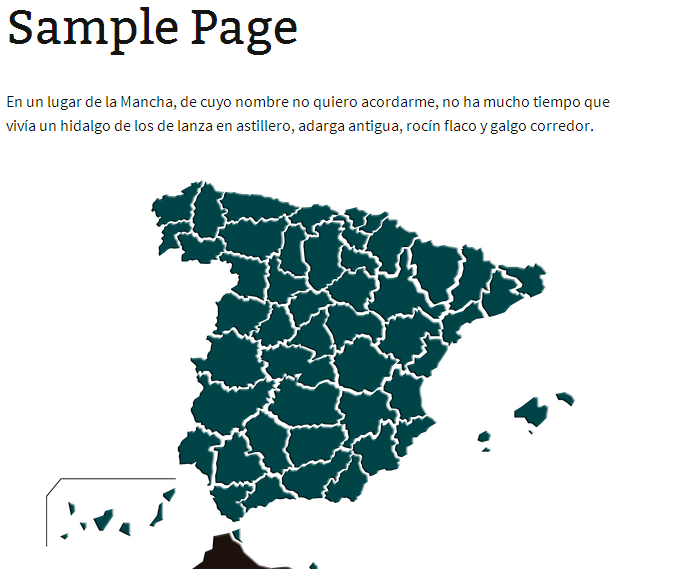
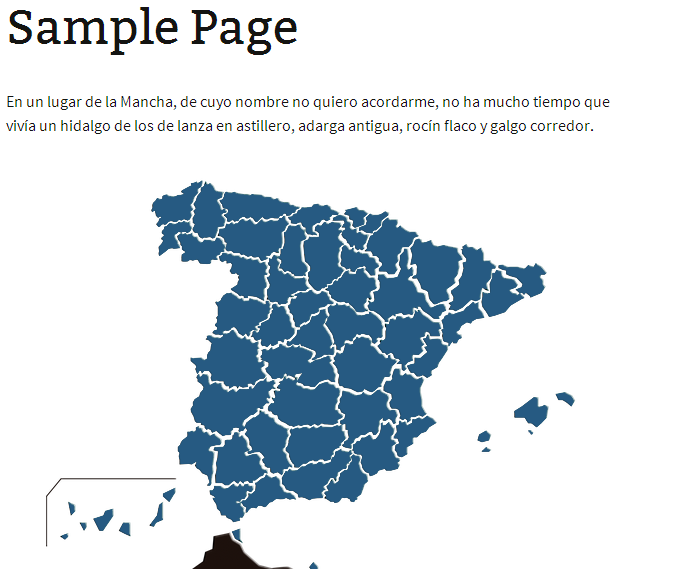
Version 1.1.0
Nueva versión

diff --git a/js/mapa-politico-spain.js b/js/mapa-politico-spain.js
@@ -1,6 +1,6 @@
 jQuery(function($){
 	$(document).ready(function(){
-
+ 
 		$('img#wp-img-mapa').mouseover(function(){
 
 			var imagen = $(this);
@@ -16,6 +16,89 @@ jQuery(function($){
 			return false;
 		});
 		
+
+	
+		$('area.provincia').mouseover(function(){
+
+			var imagen_actual = $("img#wp-img-mapa").attr("src");
+			var imagen_nueva ;
+			
+			var siteurl =  bloginfo.siteurl;
+	
+			var ruta = siteurl+"/wp-content/plugins/wp-mapa-politico-spain/images/";
+			var id_area = $(this).attr('id');
+			
+			if (
+			   (id_area == 'prv-15') // A coruna 
+			|| (id_area == 'prv-36') // Pontevedra
+			|| (id_area == 'prv-27') // Lugo
+			|| (id_area == 'prv-32') // Ourense
+			|| (id_area == 'prv-33') // Asturias
+			|| (id_area == 'prv-39') // Cantabria
+			|| (id_area == 'prv-48') // Bizkaia
+			|| (id_area == 'prv-20') // Guipuzkoa
+			|| (id_area == 'prv-01') // Alava
+			|| (id_area == 'prv-31') // Navarra
+			|| (id_area == 'prv-24') // Leon		
+			|| (id_area == 'prv-34') // Palencia
+			|| (id_area == 'prv-09') // Burgos
+			|| (id_area == 'prv-49') // Zamora
+			|| (id_area == 'prv-47') // Valladolid
+			|| (id_area == 'prv-37') // Salamanca
+			|| (id_area == 'prv-05') // Avila
+			|| (id_area == 'prv-40') // Segovia
+			|| (id_area == 'prv-42') // Soria
+			|| (id_area == 'prv-26') // La rioja		
+			|| (id_area == 'prv-22') // Huesca
+			|| (id_area == 'prv-50') // Zaragoza
+			|| (id_area == 'prv-44') // Teruel		
+			|| (id_area == 'prv-25') // Lleida
+			|| (id_area == 'prv-17') // Girona
+			|| (id_area == 'prv-08') // Barcelona
+			|| (id_area == 'prv-43') // Tarragona		
+			|| (id_area == 'prv-12') // Castellon
+			|| (id_area == 'prv-46') // Valencia
+			|| (id_area == 'prv-03') // Alicante		
+			|| (id_area == 'prv-30') // Murcia		
+			|| (id_area == 'prv-19') // Guadalajara
+			|| (id_area == 'prv-45') // Toledo
+			|| (id_area == 'prv-16') // Cuenca
+			|| (id_area == 'prv-13') // Ciudad REal
+			|| (id_area == 'prv-02') // Albacete		
+			|| (id_area == 'prv-10') // Caceres
+			|| (id_area == 'prv-06') // Badajoz		
+			|| (id_area == 'prv-21') // Huelva
+			|| (id_area == 'prv-41') // Sevilla
+			|| (id_area == 'prv-14') // Cordoba
+			|| (id_area == 'prv-23') // Jaen
+			|| (id_area == 'prv-11') // Cadiz
+			|| (id_area == 'prv-29') // Malaga
+			|| (id_area == 'prv-18') // Granada
+			|| (id_area == 'prv-04') // Almeria	
+			|| (id_area == 'prv-38') // Santa cruz de tenerife
+			|| (id_area == 'prv-35') // Las Palmas		
+			|| (id_area == 'prv-07') // Islas BAleares		
+			|| (id_area == 'prv-51') // ceuta		
+			|| (id_area == 'prv-52') // Melilla		
+			|| (id_area == 'prv-28') // Madrid
+			){
+				imagen_nueva = ruta+"mapa_base_azul_"+id_area+".png";
+				
+			} else {
+				
+				imagen_nueva = ruta+"mapa_base_azul_claro.png";
+			}
+			
+			if (imagen_actual != imagen_nueva) {
+				//console.log("cambio a la imagen "+imagen_nueva);
+				$("img#wp-img-mapa").attr("src", imagen_nueva);
+						
+			}
+			
+			return false;
+		});
 	
 	});
+	
+	
 });

diff --git a/css/mapa-politico-spain.css b/css/mapa-politico-spain.css
@@ -4,7 +4,7 @@
 
 @media only screen and (min-width: 960px)  {
 	#wp-img-mapa{ 
-		width:601px; 
+		width:601px !important;
 		height:477px;
 		
 		margin: 0;
@@ -18,7 +18,7 @@
 
 @media only screen and (min-width: 768px) and (max-width: 959px) {
 	#wp-img-mapa{ 
-		width:601px; 
+		width:601px !important;
 		height:477px;
 		
 		margin: 0;
@@ -31,7 +31,7 @@
 
 @media only screen and (min-width: 480px) and (max-width: 767px) {
 	#wp-img-mapa{
-		width:430px;
+		width:430px !important;
 		
 		margin: 0;
     padding: 0;
@@ -43,12 +43,17 @@
 			
 @media only screen and (max-width: 479px) {		
 	#wp-img-mapa{
-		width:270px;
+		width:270px !important;
 		
 		margin: 0;
     padding: 0;
     border: 0;
 	
 	}
+	
+}
+
+.wp-border-img-mapa{
+	border : 1px solid #ddd;
 	
 }

diff --git a/js/wp-color.js b/js/wp-color.js
@@ -1,0 +1,20 @@
+jQuery(document).ready(function($){
+	
+	var myOptions = {
+			    // you can declare a default color here,
+			    // or in the data-default-color attribute on the input
+			    defaultColor: false,
+			    // a callback to fire whenever the color changes to a valid color
+			    change: function(event, ui){},
+			    // a callback to fire when the input is emptied or an invalid color
+			    clear: function() {},
+			    // hide the color picker controls on load
+			    hide: true,
+			    // show a group of common colors beneath the square
+			    // or, supply an array of colors to customize further
+			    palettes: true
+			};
+		
+		$('.wpmps-color-field').wpColorPicker(myOptions);
+		
+});

diff --git a/wp-mapa-politico-spain.php b/wp-mapa-politico-spain.php
@@ -1,9 +1,9 @@
-<?php
+<?php
 /**
 * Plugin Name: WP Mapa Politico España
 * Plugin URI: http://mispinitoswp.wordpress.com/2014/04/07/wordpress-plugin-mapa-politico-de-espana/
 * Description: Este plugin permite definir para cada una de las provincias de un mapa politico de españa un enlace.
-* Version: 1.0.2
+* Version: 1.1.0
 * Author: Juan Carlos Gomez-Lobo
 * Author URI: http://mispinitoswp.wordpress.com/
 * Text Domain: wpmps
@@ -61,7 +61,12 @@ if (!class_exists('WPMPS_Plugin')) {
 		}
 		
 		function incluirJs($hook) {
-			wp_enqueue_script('wpmps_script', plugins_url(basename(__DIR__) . '/js/mapa-politico-spain.js'));	
+			wp_register_script( 'wpmps_script', plugins_url(basename(__DIR__) . '/js/mapa-politico-spain.js') );
+			$translation_array = array( 'siteurl' => get_bloginfo('siteurl')
+																);
+			wp_localize_script( 'wpmps_script', 'bloginfo', $translation_array );
+			
+			wp_enqueue_script('wpmps_script');	
 		}
 		
 		function incluirOptions($hook) {
@@ -96,7 +101,7 @@ if (!class_exists('WPMPS_Plugin')) {
 						
 						foreach($_POST as $nombre_campo => $valor){
 							$partes = explode("-", $nombre_campo);
-							if (isset($partes[0]) && isset($partes[1])) {
+							if (isset($partes[0]) && isset($partes[1]) && ($nombre_campo!='wpmps-background-color')) {
 								$dml = "UPDATE {$wpdb->prefix}wpmps  SET $partes[1] = '$valor' WHERE id  = $partes[0]";
 								
 								//echo $nombre_campo. " = ". $valor ."<br>";
@@ -104,6 +109,10 @@ if (!class_exists('WPMPS_Plugin')) {
 								$wpdb->query($dml);
 							}
 							
+						}
+						
+						if (isset($_POST['wpmps-background-color'])) {
+							update_option( 'wpmps-background-color', $_POST['wpmps-background-color'] );
 						}
 									
 						?>
@@ -114,6 +123,11 @@ if (!class_exists('WPMPS_Plugin')) {
 				
                 <form action="" method="post">
                  	<?php submit_button(  __('Grabar Opciones', 'wpmps' )); ?>
+                 	<h3><?php  _e ('Color de Fondo para el Mapa', 'wpmps'); ?></h3>
+                 	<input type="text" name="wpmps-background-color" value="<?php echo get_option('wpmps-background-color'); ?>" class="wpmps-color-field" data-default-color="#f3f3f3" />
+                 	
+                 	<h3><?php  _e ('Enlaces Asociados a Provincias', 'wpmps'); ?></h3>
+                 	
                 	<table>
                 		<tr>
                 			<th><?php _e ('Zona', 'wpmps' ); ?></th>
@@ -206,6 +220,9 @@ if (!class_exists('WPMPS_Plugin')) {
 		 
 		$mapa_coordenadas601x477 = clone $mapa_coordenadas920x730;
 		$mapa_coordenadas601x477->set_dimension(601,477);
+		
+		$mapa_coordenadas576x477 = clone $mapa_coordenadas920x730;
+		$mapa_coordenadas576x477->set_dimension(576,477);
 			
 		$mapa_coordenadas430x342 = clone $mapa_coordenadas920x730;
 		$mapa_coordenadas430x342->set_dimension(430,342);
@@ -215,11 +232,12 @@ if (!class_exists('WPMPS_Plugin')) {
 		
 		
 		
-		$html_mapa = '<div class="wpim-wrap-mapa">'
-					.'<img id="wp-img-mapa" src="' . plugins_url( 'images/mapa_base.png' , __FILE__ ) . '" > '
+		$html_mapa = '<div class="wpim-wrap-mapa wp-border-img-mapa" style="background-color:'.get_option('wpmps-background-color').'">'
+					.'<img id="wp-img-mapa" src="' . plugins_url( 'images/mapa_base_azul_claro.png' , __FILE__ ) . '" > '
 					. $mapa_coordenadas920x730->generar_mapa_coordenadas()
 					. $mapa_coordenadas718x570->generar_mapa_coordenadas()
 					. $mapa_coordenadas601x477->generar_mapa_coordenadas()
+					. $mapa_coordenadas576x477->generar_mapa_coordenadas()
 					. $mapa_coordenadas430x342->generar_mapa_coordenadas()
 					. $mapa_coordenadas270x214->generar_mapa_coordenadas()		
 					.'</div>';
@@ -230,6 +248,16 @@ if (!class_exists('WPMPS_Plugin')) {
 	add_shortcode( 'wp-political-map-spain', 'wp_imgmap' );
 	
 	
+	if (is_admin()){
+		add_action( 'admin_enqueue_scripts','mw_enqueue_color_picker');
+	}
+	function mw_enqueue_color_picker( $hook_suffix ) {
+		wp_enqueue_style( 'wp-color-picker' );
+		wp_enqueue_script( 'wpmps_script_color_picker', plugins_url(basename(__DIR__) . '/js/wp-color.js'), array( 'wp-color-picker' ), false, true );
+	
+	}
+	
+		
 }
 	
 

diff --git a/class-wp-mapa-coordenadas.php b/class-wp-mapa-coordenadas.php
@@ -552,6 +552,7 @@ class WP_Mapa_Coordenadas{
 			//$atributo_data_filter = ' data-filter="madrid" ';
 	
 			$mapa .= '<area shape="poly" '
+			.' id ="prv-'.$cod_area.'"'
 			.' class="provincia" '
 			.' coords="'.$this->recuperar_coordenadas($cod_area).'"'
 			.' href="'.$this->get_property($cod_area,'href').'"'
